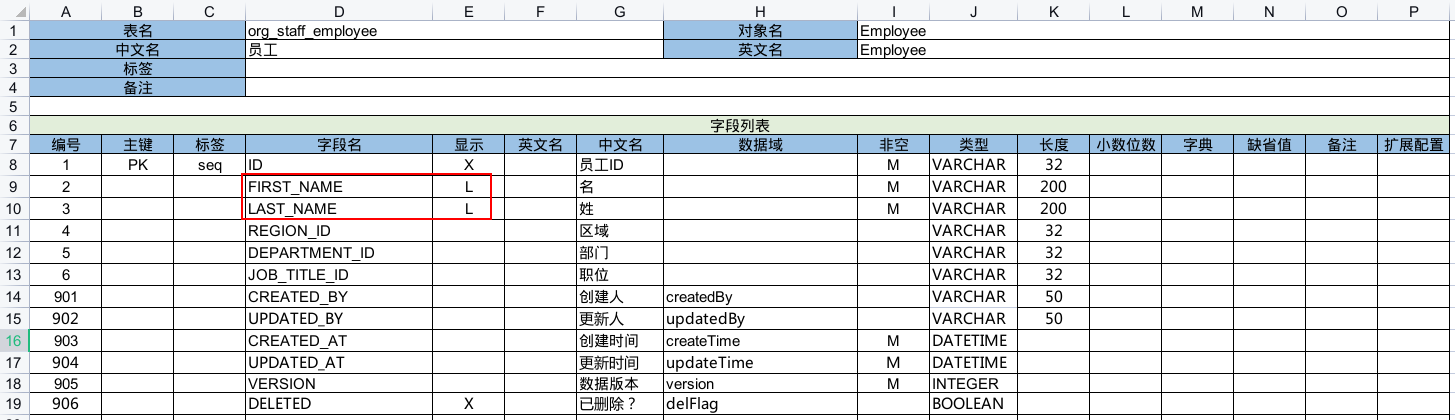
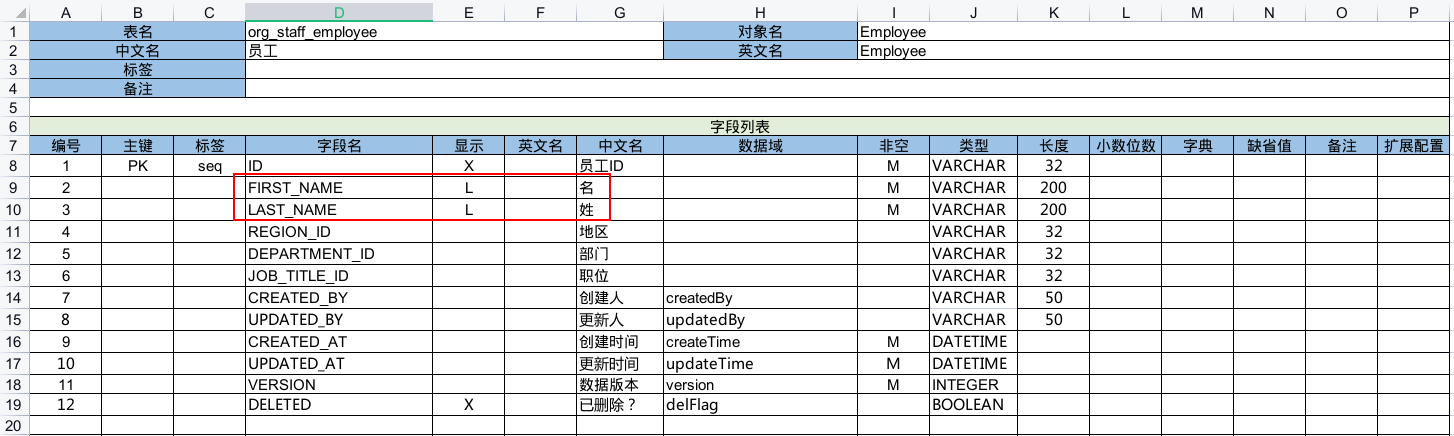
Docs: 补充缺失内容，修正截图和演示样例

Changed region(s): [[0.0, 0.0, 1.0, 1.0]]

diff --git a/docs/200.practice/150.demo/200.v1.md b/docs/200.practice/150.demo/200.v1.md
@@ -36,25 +36,29 @@ ${JAVA_HOME}/bin/java \
 
 定义 Excel 数据模型需注意以下几点：
 
-- 所有的实体模型都必须定义一个【主键】（值为 `PK`）以及一个在前端的显示名称（【标签】包含 `disp` 的字段），
+- 【**字段列表**】中的【**编号**】必须是唯一的，不能重复，其将被用于识别字段的 Delta 变更。
+  其大小顺序即为各字段在前端列表中的默认显示顺序，取值范围为 `1 ~ 1999`。
+  按字段添加的先后顺序进行递增，注意，不是按相对位置递增，在删除字段后，其余字段的编号保持不变。
+  <u>注：【关联条件】下的【序号】列的数字不要求连续和唯一性，其仅用于标识有效行（其他表单中的【序号】列都是如此）</u>
+- 所有的实体模型都必须定义一个【**主键**】（值为 `PK`）以及一个在前端的显示名称（【**标签**】包含 `disp` 的字段），
   若不指定 `disp` 字段，则默认以主键列的值作为显示内容
-- 【标签】包含 `seq` 的 `VARCHAR` 类型的字段将默认使用 UUID 值，其字符串长度为 `32`
-- 【标签】包含 `parent` 的字段代表该对象的父级属性，在前端维护对象的父子关系时将能够自动识别并正确赋值，
+- 【**标签**】包含 `seq` 的 `VARCHAR` 类型的字段将默认使用 UUID 值，其字符串长度为 `32`
+- 【**标签**】包含 `parent` 的字段代表该对象的父级属性，在前端维护对象的父子关系时将能够自动识别并正确赋值，
   比如，在列表【操作】列点击【更多】下拉菜单中的【添加下级】时，将会在编辑框中自动设置新数据的父对象为当前行数据
-- 【字段列表】中的【编号】必须是唯一的，不能重复，其将被作为属性标识用于识别 Delta 变更，
-  且其大小顺序即为各字段在前端列表中的默认显示顺序，取值范围为 `1~1999`。
-  **注**：需保持序号顺序递增，不要像上图中那样跳跃性为属性指定序号
-- 关联字段 `PARENT_ID` 在前端将实际显示为被关联对象的 `disp` 字段值，
-  因此，需将该字段视为被关联对象，在 【中文名】或【英文名】中不能再包含 `ID` 之类的名称
-- 【关联列表】中的【属性名】为必填项，其内容为当前对象与被关联对象绑定时的属性名称，
-  【关联条件】中的【左属性】与【右属性】分别为当前对象和被关联对象在数据库层面做 join
-  的字段所映射的对象属性名称，数据库字段均需与对象的属性做映射，
-  并按照驼峰命名规则建立自动映射
-- 表单 `org_staff_employee` 将采用自定义属性 `fullName` 做显示属性，
-  故而，未在【字段列表】中标记 `disp` 字段，同时将 `FIRST_NAME` 和 `LAST_NAME`
-  的【显示】设置为 `L`，即，不在列表中显示
 
 ![](./img/demo-v1-model-parent-tag.png)
+
+- 关联字段 `PARENT_ID` 在前端将实际显示为被关联对象的 `disp` 字段值，
+  因此，需将该字段视为被关联对象，在 【**中文名**】或【**英文名**】中不能再包含 `ID` 之类的名称
+- 【**字段名**】将自动与对象的属性进行映射，并**按照驼峰命名规则，将字段名转换为属性名**，
+  如，`PARENT_ID` 映射属性名为 `parentId`
+- 【**关联列表**】中的【**属性名**】为必填项，其内容为当前对象与被关联对象绑定时的属性名称（命名规范自定），
+  【**关联条件**】中的【**左属性**】与【**右属性**】分别为当前对象和被关联对象在数据库层面做
+  join 的字段所映射的对象属性名称，例如，连接条件为 `JOIN c.PARENT_ID = p.ID`，
+  则左右属性分别为 `parentId` 和 `id`
+- 表单 `org_staff_employee` 将采用自定义属性 `fullName` 做显示属性，
+  故而，未在【**字段列表**】中标记 `disp` 字段，同时将 `FIRST_NAME` 和 `LAST_NAME`
+  的【**显示**】设置为 `L`，即，不在列表中显示
 
 ![](./img/demo-v1-model-employee.png)
 
@@ -187,7 +191,7 @@ ${JAVA_HOME}/bin/java \
 
 ### 在前端列表显示数据版本
 
-【数据域】为 `version` 的字段为后端维护数据，默认在前端不显示，在 Excel 中无法开启显示。
+【**数据域**】为 `version` 的字段为后端维护数据，默认在前端不显示，在 Excel 中无法开启显示。
 若需要让其显示在列表中，则需要在 `*.xmeta` 中将其 `internal` 设置为 `false`：
 
 ```xml title="nop-demo-delta/src/main/resources/_vfs/_delta/v1/nop/demo/model/Employee/Employee.xmeta"

diff --git a/docs/400.integration/200.trad-mode.md b/docs/400.integration/200.trad-mode.md
@@ -135,6 +135,7 @@ src/main/
       <groupId>io.github.entropy-cloud</groupId>
       <artifactId>nop-spring-web-orm-starter</artifactId>
       <exclusions>
+        <!-- 不引入 Nop 提供的用户认证和鉴权机制 -->
         <exclusion>
           <groupId>io.github.entropy-cloud</groupId>
           <artifactId>nop-auth-core</artifactId>
@@ -162,6 +163,10 @@ src/main/
   <!-- ... -->
 </project>
 ```
+
+注意，在使用 Spring 生态的用户认证和鉴权机制时，需排除依赖
+`io.github.entropy-cloud:nop-auth-core` 以禁用 Nop
+提供的实现方案。
 
 ## 一个简单的业务处理模型
 
